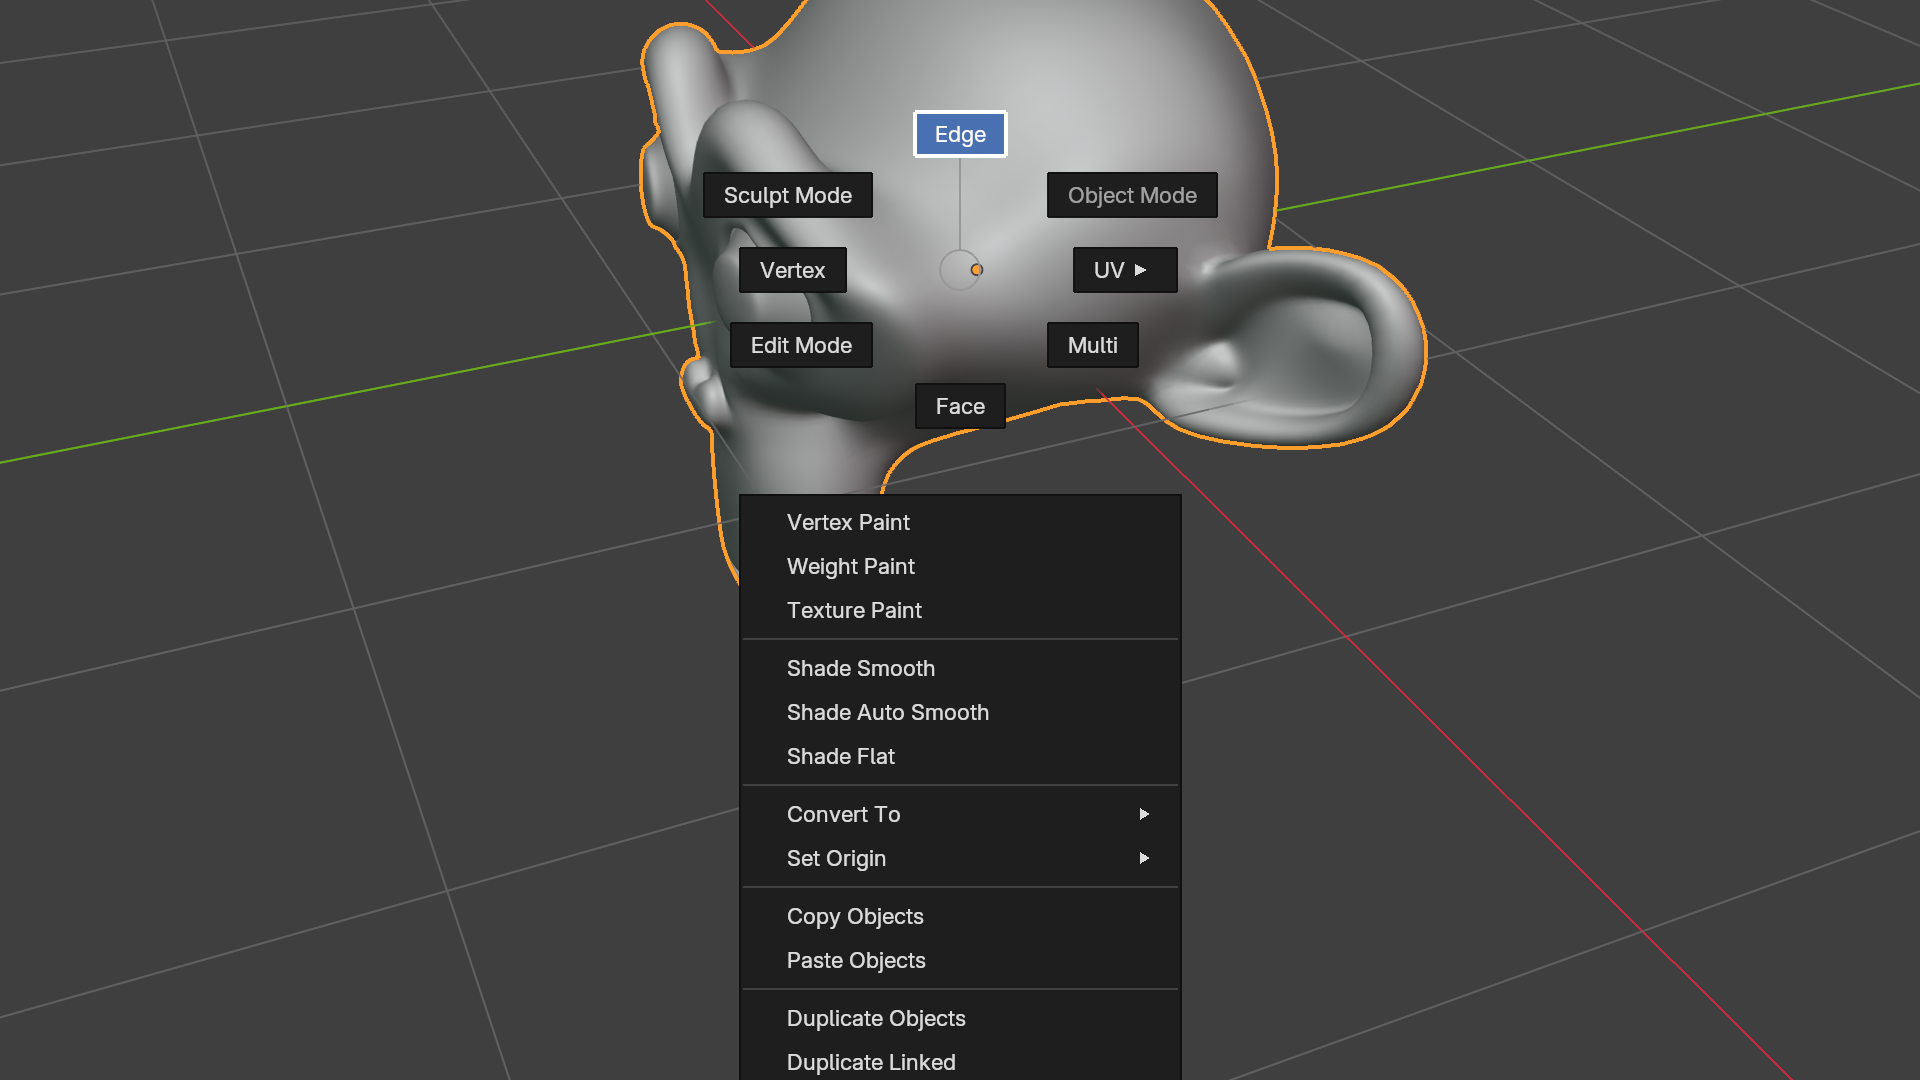
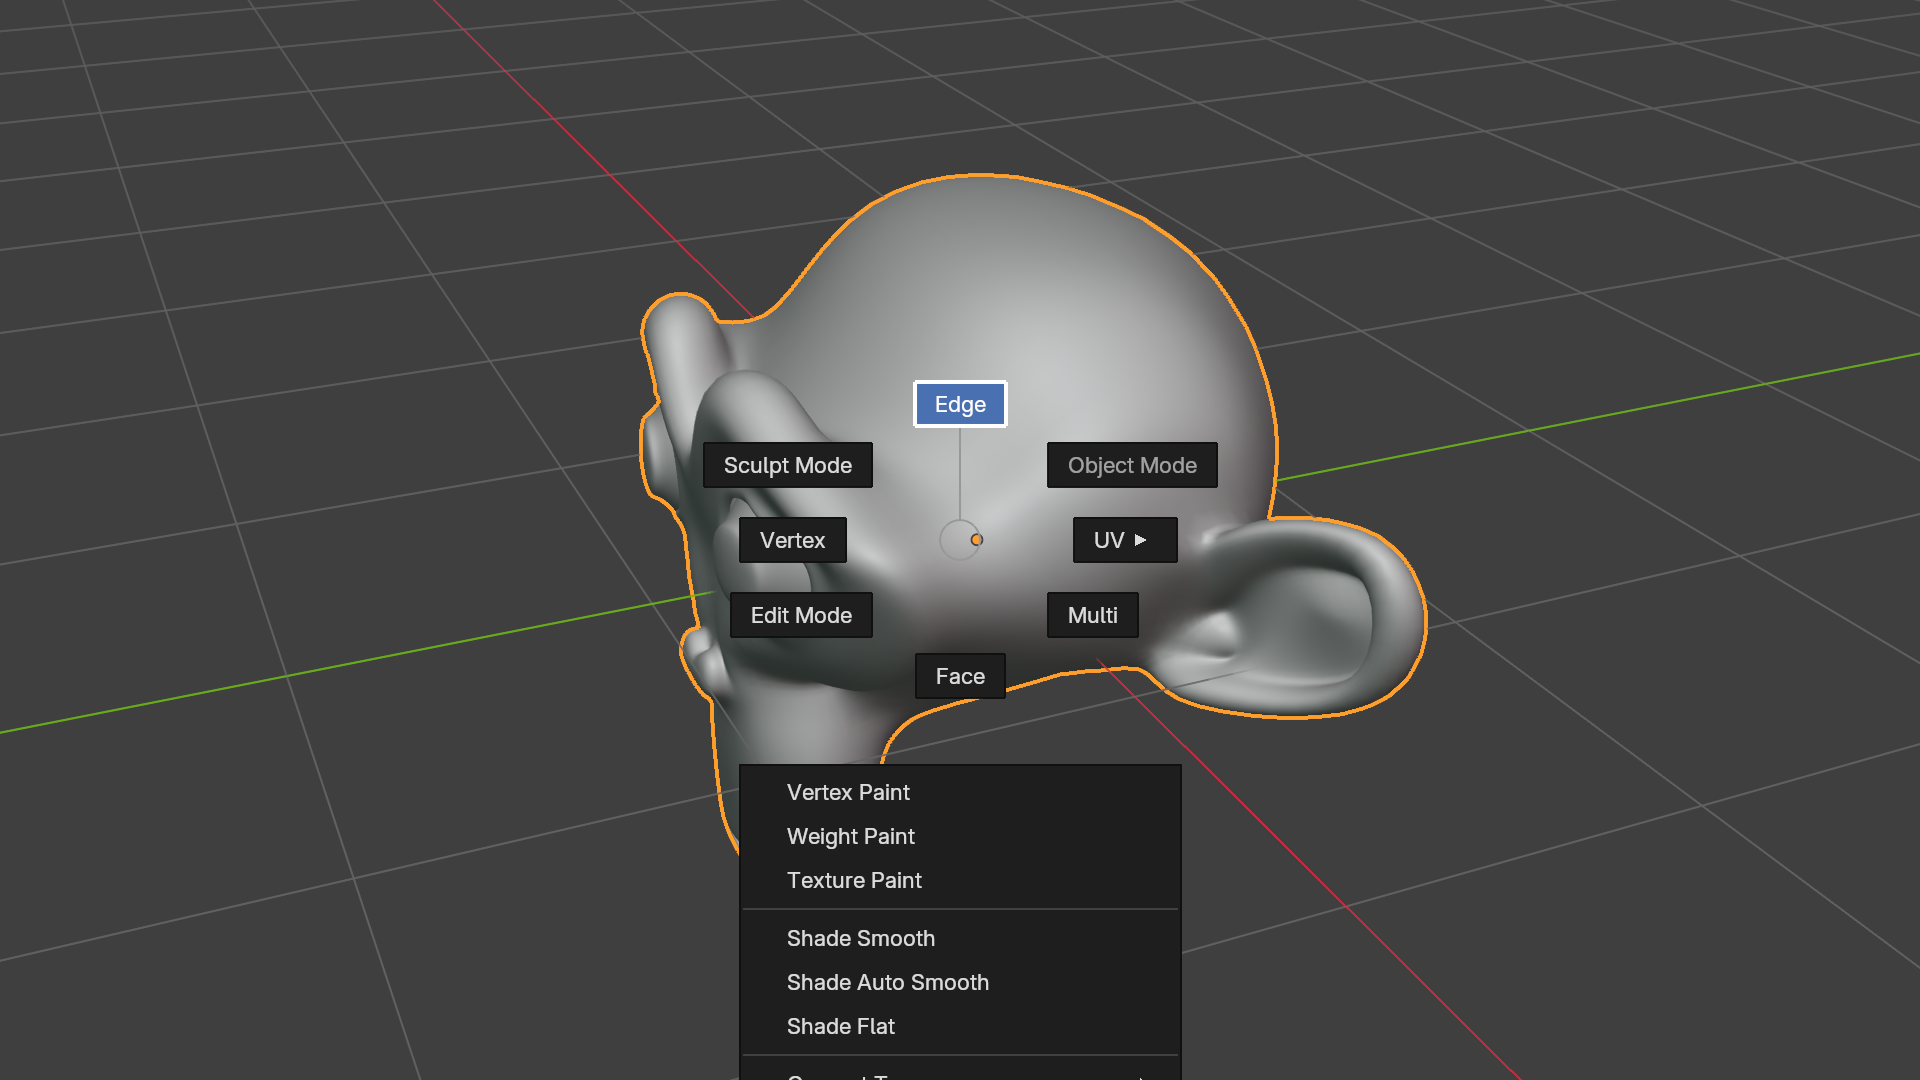
GIF and Compass close-up centred on the Compass; the GIF loops
The GIF's close-up crop centres on the press point (the model and every
Compass), wide enough for the Plaza and the radials and never under
1920x1080; a list or dropdown may run off it. The storyboard picks Edge in
the Top view and orbits back to the first frame's perspective view, so the
clip loops. The Compass close-up centres on the radial.

diff --git a/tests/gui/scenarios_gif.py b/tests/gui/scenarios_gif.py
@@ -1,7 +1,8 @@
 # SPDX-License-Identifier: GPL-3.0-or-later
 """Frames for the README GIF (local/docs/phase7-interfaces.md §3): hold Space for the Plaza,
 open File, flick the centre Compass north (Top view), then with the Meso Keymap hold
-right-click and flick north (Edge). Every step saves the main window as
+right-click and flick north (Edge, still in the Top view), and orbit back to the first frame's
+perspective view, so the clip loops. Every step saves the main window as
 ``tests/gui/out/gif/frame_NNNN.png`` (full size) with how long it stays on screen, listed in
 ``frames.ffconcat``; ``gif.json`` holds the 3D View area as the default crop.
 ``tools/make_gif.py`` turns them into ``docs/images/meso.gif``.
@@ -44,7 +45,8 @@ def scenarios(drv):
 
     out_dir = drv.ROOT / "tests" / "gui" / "out" / "gif"
     frames = []          # (file name, seconds on screen)
-    drawn = []           # window rects the Plaza and the Compasses drew in the frames
+    drawn = []           # (kind, rect): what the Plaza and the Compasses drew in the frames
+    centre = []          # the press point (window coords): the close-up crop centres on it
 
     def renderer():
         return importlib.import_module(drv.ADDON_MODULE + ".view.renderer")
@@ -54,14 +56,13 @@ def scenarios(drv):
         return [b.rect for b in cs.layout.boxes] if cs is not None else []
 
     def note_drawn():
-        """The rects on screen now: the Plaza and its dropdowns, the Compass radials."""
+        """The rects on screen now: the Plaza and the Compass radials (the dropdowns and the
+        Compass lists may run off the close-up)."""
         st = drv.plaza().current_state()
         if st is not None:
-            menus = getattr(st, 'menus', None)
-            drawn.extend(r for r in (getattr(st.layout, 'extent', None) if st.layout else None,
-                                     renderer().chain_extent(getattr(menus, 'chain', None)))
-                         if r is not None)
-            drawn.extend(radial(getattr(menus, 'compass', None)))
+            if st.layout is not None and getattr(st.layout, 'extent', None) is not None:
+                drawn.append(st.layout.extent)
+            drawn.extend(radial(getattr(getattr(st, 'menus', None), 'compass', None)))
         rs = rmb().current_state()
         drawn.extend(radial(getattr(rs, 'compass', None) if rs is not None else None))
 
@@ -108,17 +109,20 @@ def scenarios(drv):
         a = drv.area_by("VIEW_3D")
         crop = {"x": int(a.x * sx), "y": int(h - (a.y + a.height) * sy),
                 "w": int(a.width * sx), "h": int(a.height * sy)}
-        if drawn and closeup():
-            x0, y0 = min(r.x for r in drawn), min(r.y for r in drawn)
-            x1, y1 = max(r.x + r.w for r in drawn), max(r.y + r.h for r in drawn)
+        if drawn and centre and closeup():
+            # Centred on the press point (the model and every Compass), wide enough for the
+            # Plaza and the radials around it; a list or dropdown may run off it.
+            px, py = centre[0]
             pad = 40 * CLOSEUP_SCALE
-            bw, bh = (x1 - x0 + 2 * pad) * sx, (y1 - y0 + 2 * pad) * sy
+            half_w = max(max(abs(r.x - px), abs(r.x + r.w - px)) for r in drawn) + pad
+            half_h = max(max(abs(r.y - py), abs(r.y + r.h - py)) for r in drawn) + pad
+            bw, bh = 2 * half_w * sx, 2 * half_h * sy
             # Inside the 3D View (never the timeline or the header bars around it).
             vl, vt, vw, vh = crop["x"], crop["y"], crop["w"], crop["h"]
-            cw = min(vw, max(bw, bh * 16 / 9))
+            cw = min(vw, max(bw, bh * 16 / 9, 1920 * sx))   # never under 1920x1080
             ch = min(vh, cw * 9 / 16)
             cw = ch * 16 / 9
-            cx, cy = (x0 + x1) / 2 * sx, h - (y0 + y1) / 2 * sy
+            cx, cy = px * sx, h - py * sy
             cl = int(min(max(cx - cw / 2, vl), vl + vw - cw))
             ct = int(min(max(cy - ch / 2, vt), vt + vh - ch))
             crop_closeup = {"x": cl, "y": ct, "w": int(cw), "h": int(ch)}
@@ -252,7 +256,23 @@ def scenarios(drv):
         k = bpy.context.preferences.view.ui_scale or 1.0
         drv.sim('MOUSEMOVE', 'NOTHING', (int(xy[0] + 160 * k), int(xy[1] - 120 * k)))
         yield 0.2
-        frame(1.8)
+        frame(1.0)
+        return True
+
+    def orbit_back(rv3d, view, steps=8):
+        """From the Top view back to the first frame's perspective view, eased over ``steps``
+        frames (as an orbit leaves an axis view: perspective at once), then a hold."""
+        persp, rotation, distance = view
+        start, start_d = rv3d.view_rotation.copy(), rv3d.view_distance
+        rv3d.view_perspective = persp
+        for k in range(1, steps + 1):
+            t = k / steps
+            t = t * t * (3 - 2 * t)
+            rv3d.view_rotation = start.slerp(rotation, t)
+            rv3d.view_distance = start_d + (distance - start_d) * t
+            yield 0.05
+            frame(STEP)
+        frame(1.0)
 
     def closeup():
         return drv.win().width >= CLOSEUP_WIDTH
@@ -302,10 +322,12 @@ def scenarios(drv):
             drv.sim('MOUSEMOVE', 'NOTHING', xy)
             yield 0.3
             size = frame(0.8)
+            centre.append(xy)
             if (yield from plaza_part(rec, xy)):
-                rv3d.view_perspective, rv3d.view_rotation, rv3d.view_distance = view
                 yield 0.3
-                yield from rmb_part(rec, xy)
+                # Edge in the Top view, then orbit back to the first frame's view: it loops.
+                if (yield from rmb_part(rec, xy)):
+                    yield from orbit_back(rv3d, view)
         finally:
             object_mode()
             ts.mesh_select_mode = select_mode

diff --git a/tests/gui/scenarios_shots.py b/tests/gui/scenarios_shots.py
@@ -9,7 +9,8 @@ saved as ``tests/gui/out/shots/<name>.png``:
 
 - ``plaza_closeup``: the Plaza in the 3D View, no dropdown open;
 - ``compass_closeup``: the right-click Compass (the Meso Keymap) over a model, the pointer
-  marking Edge; the crop holds the radial whole and the top of its list;
+  marking Edge; the crop is centred on the radial (and the model under it), its list
+  running off the bottom;
 - ``compass_uv_closeup``: the same Compass with UV ▸ expanded beside its box.
 
 The scene is a smooth Suzanne under a matcap. ``NEEDS_GRAB`` stays False: nothing here starts
@@ -158,7 +159,7 @@ def scenarios(drv):
             yield 0.3
             drv.check(rec, "edge_hovered", cs.gesture.hover_slot is not None)
             lay = cs.layout
-            shot(rec, "compass_closeup", [b.rect for b in lay.boxes], top=True)
+            shot(rec, "compass_closeup", [b.rect for b in lay.boxes])       # centred
             drv.sim('ESC', 'PRESS', xy)
             drv.sim('ESC', 'RELEASE', xy)
             yield 0.3
